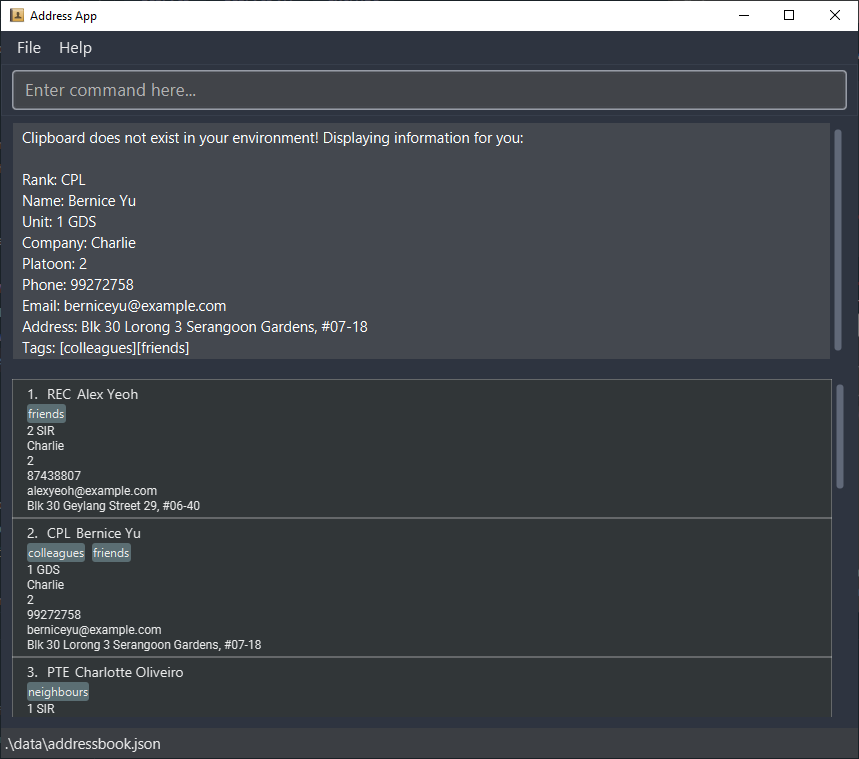
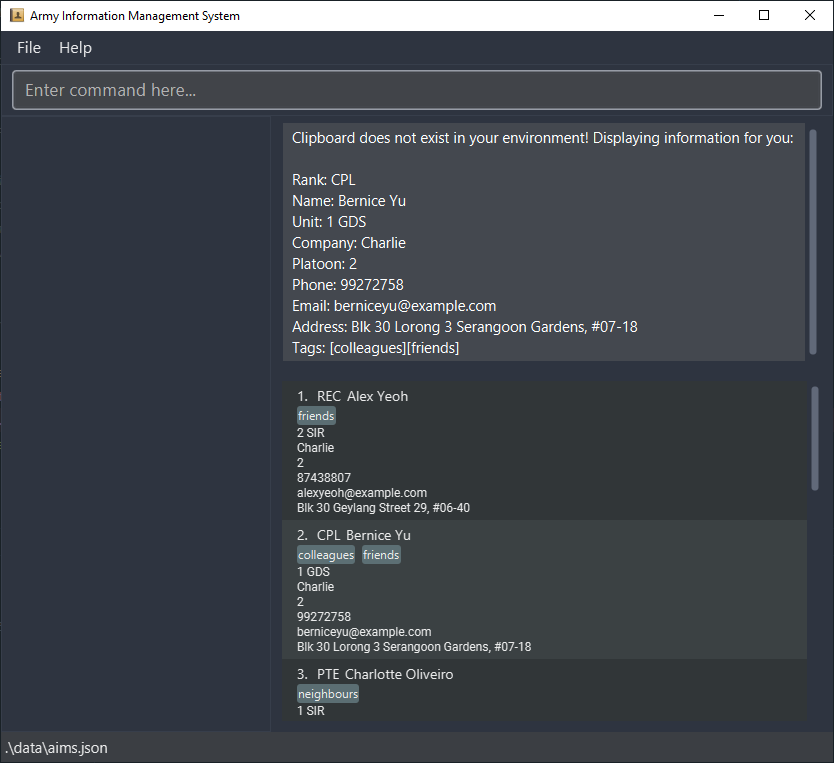
Update UG and sample data

diff --git a/src/main/java/seedu/address/model/util/SampleDataUtil.java b/src/main/java/seedu/address/model/util/SampleDataUtil.java
@@ -26,9 +26,9 @@ public class SampleDataUtil {
             new Person(
                     new Rank("REC"),
                     new Name("Alex Yeoh"),
-                    new Unit("BMT"),
-                    new Company("Coy"),
-                    new Platoon("Plt"),
+                    new Unit("2 SIR"),
+                    new Company("Charlie"),
+                    new Platoon("2"),
                     new Phone("87438807"),
                     new Email("alexyeoh@example.com"),
                     new Address("Blk 30 Geylang Street 29, #06-40"),
@@ -36,9 +36,9 @@ public class SampleDataUtil {
             new Person(
                     new Rank("CPL"),
                     new Name("Bernice Yu"),
-                    new Unit("Bravo"),
+                    new Unit("1 GDS"),
                     new Company("Charlie"),
-                    new Platoon("Tiger 123"),
+                    new Platoon("2"),
                     new Phone("99272758"),
                     new Email("berniceyu@example.com"),
                     new Address("Blk 30 Lorong 3 Serangoon Gardens, #07-18"),
@@ -46,9 +46,9 @@ public class SampleDataUtil {
             new Person(
                     new Rank("PTE"),
                     new Name("Charlotte Oliveiro"),
-                    new Unit("Alpha"),
+                    new Unit("1 SIR"),
                     new Company("Bravo"),
-                    new Platoon("Tiger 123"),
+                    new Platoon("4"),
                     new Phone("93210283"),
                     new Email("charlotte@example.com"),
                     new Address("Blk 11 Ang Mo Kio Street 74, #11-04"),
@@ -57,9 +57,9 @@ public class SampleDataUtil {
             new Person(
                     new Rank("3SG"),
                     new Name("David Li"),
-                    new Unit("Charlie1"),
-                    new Company("12 Bravo"),
-                    new Platoon("Fierce 123"),
+                    new Unit("9 SIR"),
+                    new Company("Bravo"),
+                    new Platoon("4"),
                     new Phone("91031282"),
                     new Email("lidavid@example.com"),
                     new Address("Blk 436 Serangoon Gardens Street 26, #16-43"),
@@ -68,9 +68,9 @@ public class SampleDataUtil {
             new Person(
                     new Rank("2LT"),
                     new Name("Irfan Ibrahim"),
-                    new Unit("Charlie2"),
-                    new Company("12 Bravo"),
-                    new Platoon("Fierce 123"),
+                    new Unit("30 SCE"),
+                    new Company("Bravo"),
+                    new Platoon("2"),
                     new Phone("92492021"),
                     new Email("irfan@example.com"),
                     new Address("Blk 47 Tampines Street 20, #17-35"),
@@ -78,9 +78,9 @@ public class SampleDataUtil {
 
             new Person(new Rank("PTE"),
                     new Name("Roy Balakrishnan"),
-                    new Unit("Alpha Males"),
-                    new Company("Boo Bravo"),
-                    new Platoon("Tiger 123"),
+                    new Unit("38 SCE"),
+                    new Company("Delta"),
+                    new Platoon("1"),
                     new Phone("92624417"),
                     new Email("royb@example.com"),
                     new Address("Blk 45 Aljunied Street 85, #11-31"),

diff --git a/docs/UserGuide.md b/docs/UserGuide.md
@@ -268,7 +268,7 @@ Examples:
 - `find alex david` returns `Alex Yeoh`, `David Li`<br>
   ![result for 'find alex david'](images/findAlexDavidResult.png)
 
-### Locating persons using filters on fields: `filter`
+### Locating persons using filters on fields : `filter`
 
 Filters all persons to only show those whose fields contain all of the given keywords.
 
@@ -331,6 +331,10 @@ Format: `favorite INDEX`
 - Running this command on a person who is already in the favorite list will him from the favorite list.
 - The index refers to the index number shown in the displayed person list.
 - The index **must be a positive integer** 1, 2, 3, …
+
+Example:
+- `favorite 3` will pin the third person in the favorites panel.
+![result for `favorite 3`](images/favorite3.png)
 
 ### Exiting the program : `exit`
 
